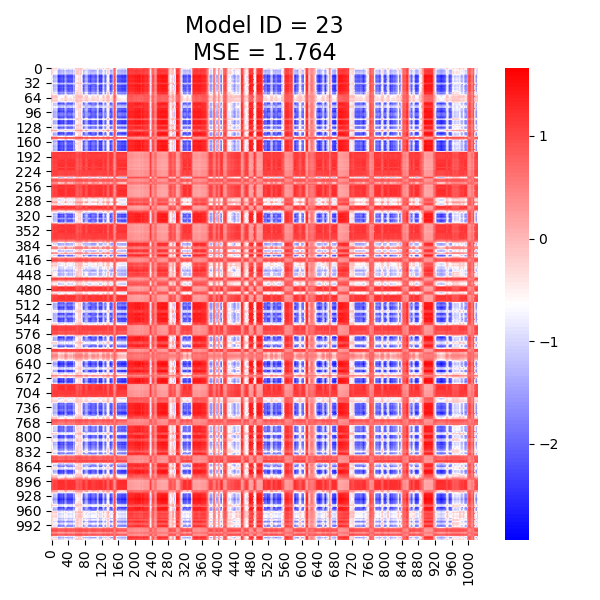
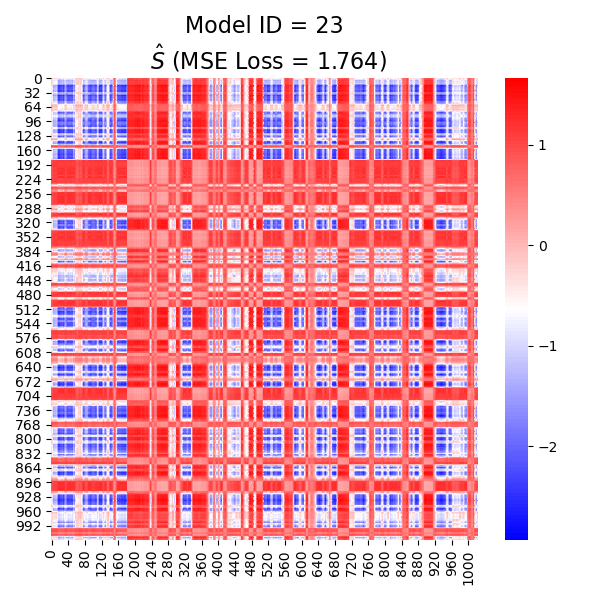
update

diff --git a/result_summary_plots.py b/result_summary_plots.py
@@ -118,7 +118,7 @@ def main():
 
     ehat = np.loadtxt(osp.join(args.root, 'results/ContactGNNEnergy/{}/sample{}/energy_hat.txt'.format(args.model_id, args.sample)))
     mse = np.round(mean_squared_error(e, ehat), 3)
-    plotContactMap(ehat, vmin = 'min', vmax = 'max', cmap = 'blue-red', ofile = osp.join(args.sample_folder, 's_hat.png'), title = 'Model ID = {}\nMSE = {}'.format(args.model_id, mse))
+    plotContactMap(ehat, vmin = 'min', vmax = 'max', cmap = 'blue-red', ofile = osp.join(args.sample_folder, 's_hat.png'), title = 'Model ID = {}\n {} (MSE Loss = {})'.format(args.model_id, r'$\hat{S}$', mse))
 
     dif = ehat - e
     v_max = np.max(e)
